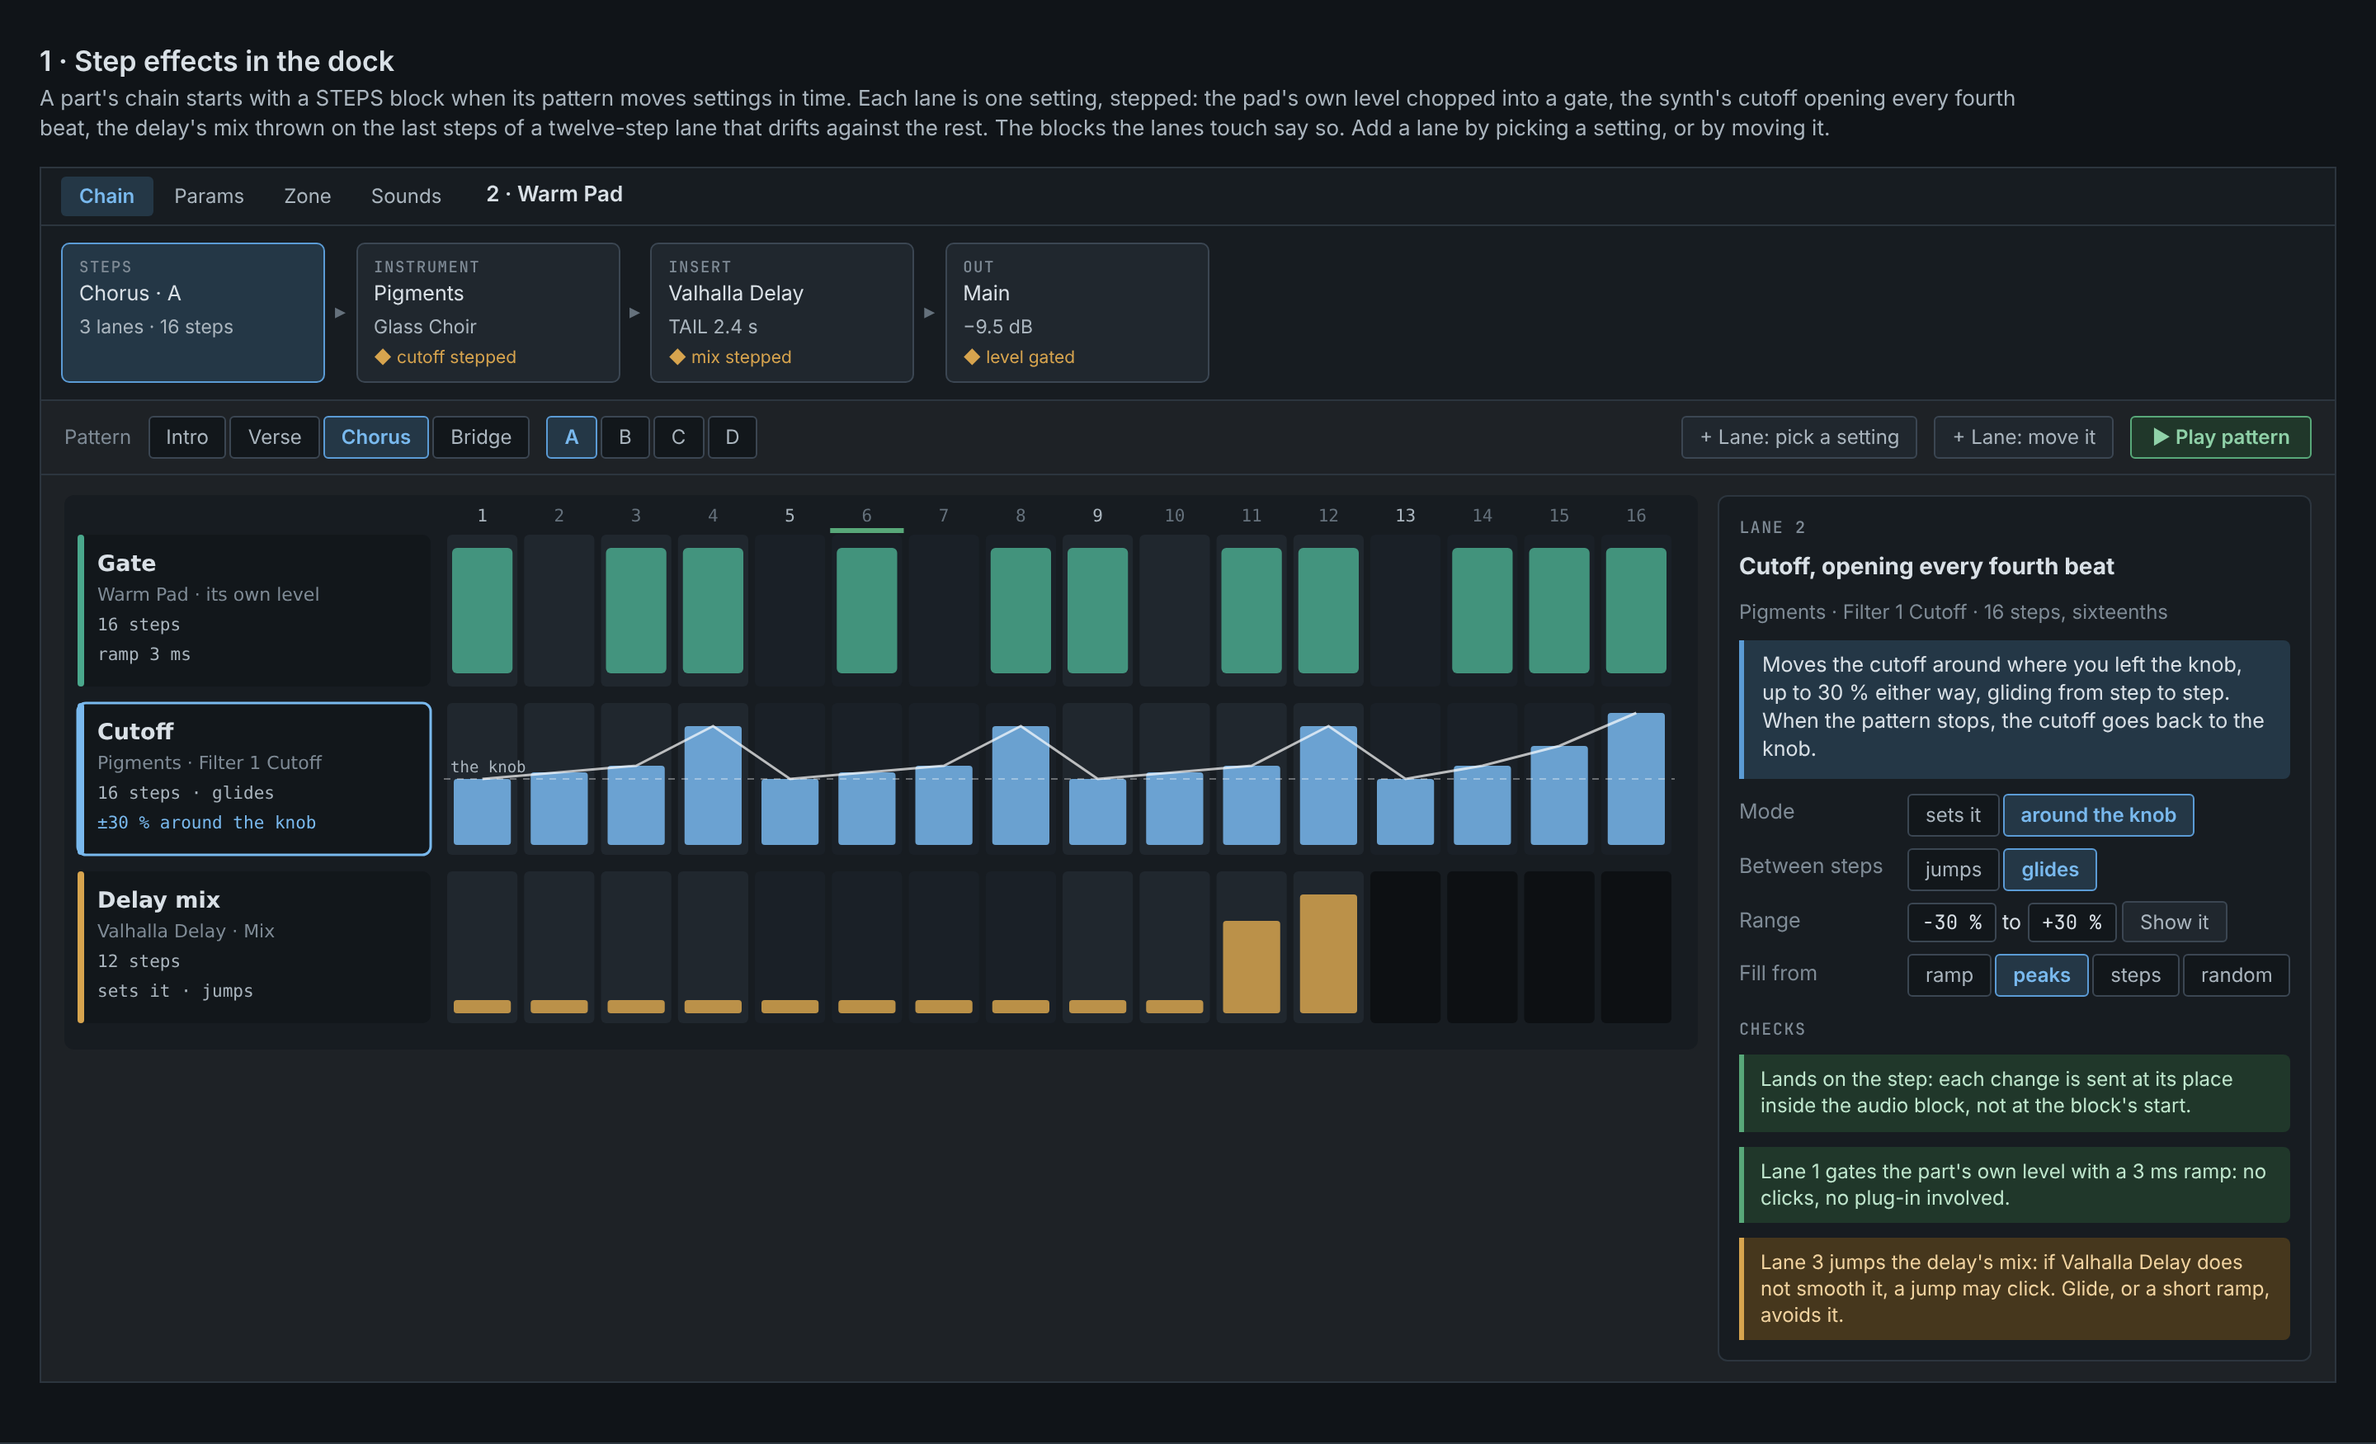
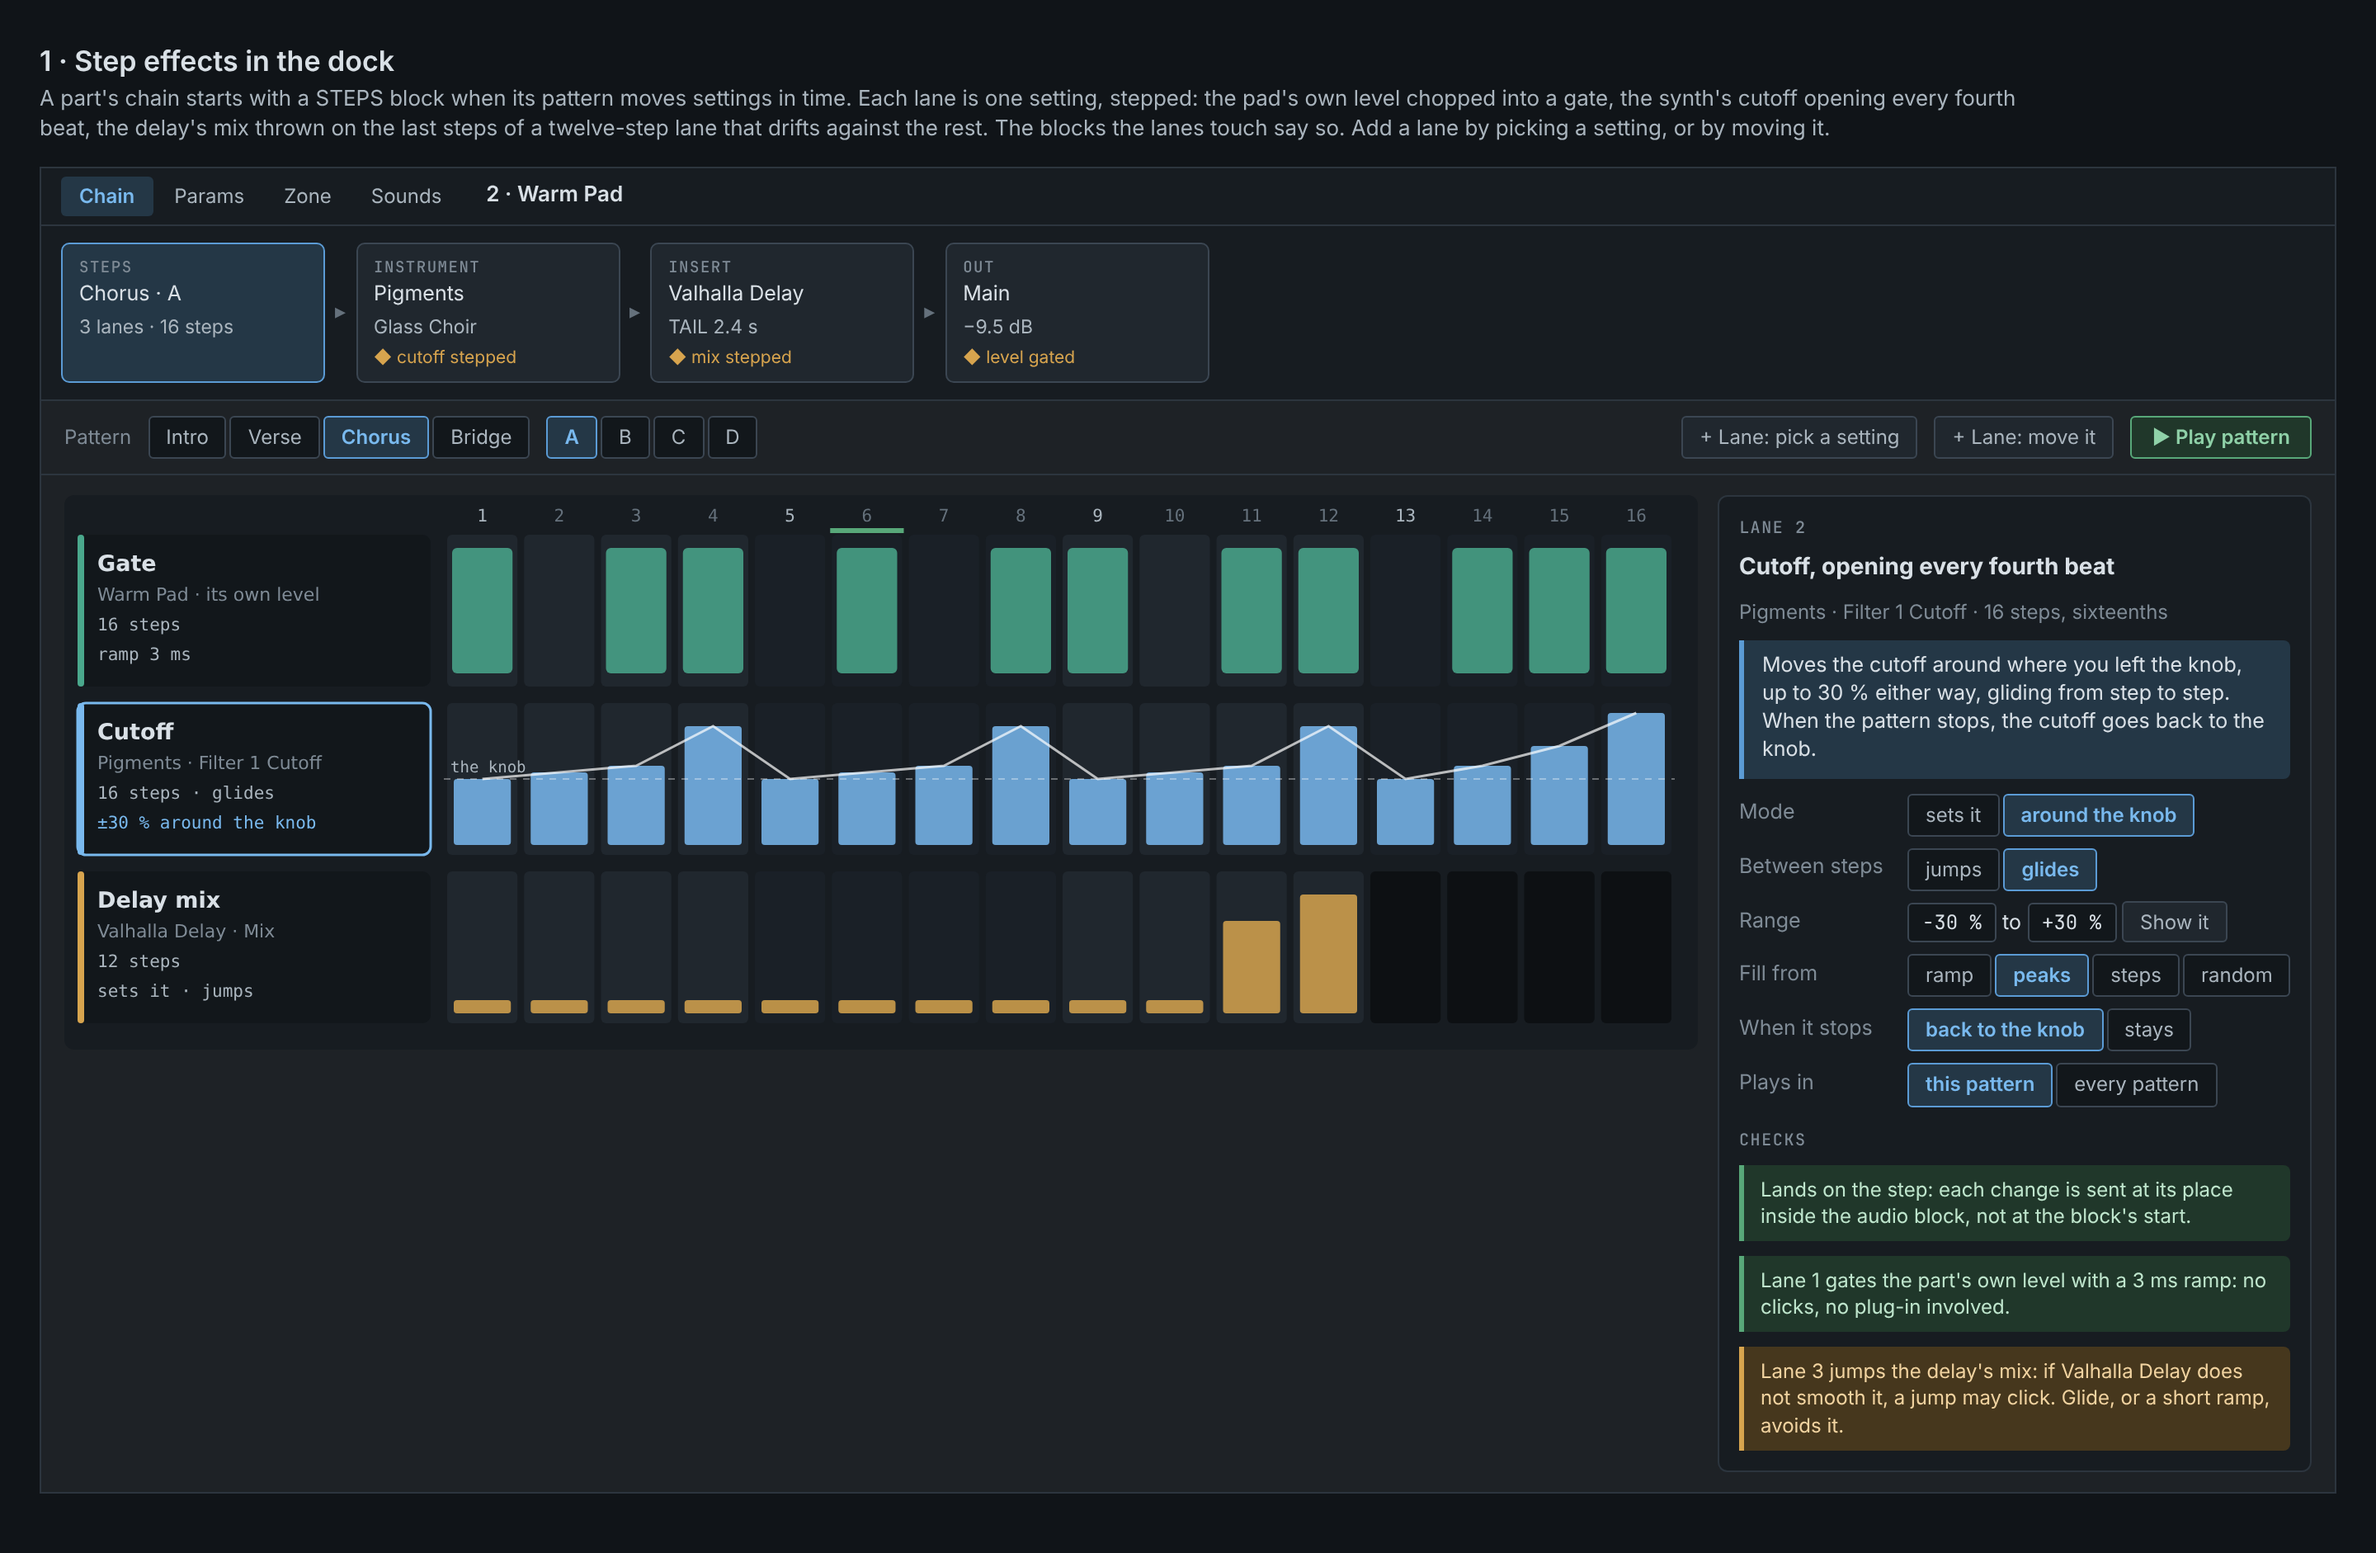
Design: step effects approved; alternatives become settings [skip ci]
The owner said to take the recommendations or make them a choice in the program. Each is taken;
where a reasonable alternative exists it is a setting with the recommendation as default: a lane
plays in this pattern or every pattern of the part, goes back to the knob or stays when the
pattern stops, a gate's ramp is adjustable and a gate on a plug-in's setting is allowed with the
click warning. Landing changes on the step has no setting, since a block early is never wanted.
The lane's panel in the mockup shows the two new choices.

Claude-Session: https://claude.ai/code/session_01HyVeCzB98iwNdttddkKjwm

diff --git a/docs/design/hostage-steps-mockups.html b/docs/design/hostage-steps-mockups.html
@@ -92,6 +92,8 @@
           <span class="kk">Between steps</span><span class="seg"><span>jumps</span><span class="on">glides</span></span>
           <span class="kk">Range</span><span><span class="field">−30 %</span> to <span class="field">+30 %</span> <span class="ghostb">Show it</span></span>
           <span class="kk">Fill from</span><span class="seg"><span>ramp</span><span class="on">peaks</span><span>steps</span><span>random</span></span>
+          <span class="kk">When it stops</span><span class="seg"><span class="on">back to the knob</span><span>stays</span></span>
+          <span class="kk">Plays in</span><span class="seg"><span class="on">this pattern</span><span>every pattern</span></span>
         </div>
         <span class="lbl" style="margin-top:4px">Checks</span>
         <div class="ok">Lands on the step: each change is sent at its place inside the audio block, not at the block's start.</div>

diff --git a/docs/design/README.md b/docs/design/README.md
@@ -74,7 +74,7 @@ with an *as built* section per phase.
 | [HoSTage: samples, on pads and keys](hostage-sampler-design.md) | *Approved with mockups, 2026-11-19; nothing built.* Feature 12 of the second round. A built-in one-shot sampler, the first round's file player made playable: each sample on a pad and on the keys, one key or a pitched range, sixteen pads a bank, trimmed on its waveform, with fades, level, pitch, choke groups and a note; files collected into the show; SAMPLES and TRIM pages on the CTRL49. A full sampler instrument stays with plug-ins. Mockups in [hostage-sampler-mockups.html](hostage-sampler-mockups.html). |
 | [HoSTage: playing the kit](hostage-kit-design.md) | *Approved with mockups, 2026-11-19; nothing built.* Features 2 and 13 to 18 of the second round, all on the drum machine's pads: five ways for the pads to play (play, repeat, one drum, mute, erase), full strength as a switch (pads with velocity play as hit, with no curve), note repeat swung by the pattern's groove, and doubling a pattern. A Pads panel in the dock and a MODE knob on KIT. Mockups in [hostage-kit-mockups.html](hostage-kit-mockups.html). |
 | [HoSTage: the line machine](hostage-line-design.md) | *Approved with mockups, 2026-11-19; nothing built.* Feature 11 of the second round: the drum grid's twin for basslines and synth lines, a pattern on note lanes. A LINE block at the head of the chain; a piano roll in the song's key; accent and slide per step, made to work on any synth (glide by the synth, pitch bend or portamento, the synth checked; accents checked against how the sound answers strength); the line following a key or chord held on this part or another, keeping its shape or staying in the key. One new CTRL49 page, LINE, with pads for steps, accents and slides. Mockups in [hostage-line-mockups.html](hostage-line-mockups.html). |
-| [HoSTage: step effects](hostage-steps-design.md) | *Design with mockups for approval, 2026-11-19; nothing built.* Feature 9 of the second round: the pattern's parameter lanes given a face. A STEPS block at the head of the chain, a lane per setting; a gate on the part's own level, ramped; lanes that set a setting or move it around the knob and give it back when the pattern stops; changes placed on the step inside the audio block, which the plug-in proxy does not do today. A STEPS page on the CTRL49. Mockups in [hostage-steps-mockups.html](hostage-steps-mockups.html). Five decisions for the owner. |
+| [HoSTage: step effects](hostage-steps-design.md) | *Approved with mockups, 2026-11-19; nothing built.* Feature 9 of the second round: the pattern's parameter lanes given a face. A STEPS block at the head of the chain, a lane per setting; a gate on the part's own level, ramped; lanes that set a setting or move it around the knob and give it back when the pattern stops; changes placed on the step inside the audio block, which the plug-in proxy does not do today. A STEPS page on the CTRL49. Recommendations taken, alternatives as settings. Mockups in [hostage-steps-mockups.html](hostage-steps-mockups.html). |
 | [The modular chain](modular-chain.md) | *As built.* Instruments, MIDI modules and inserts as separate things: the per-part MIDI insert chain that replaced the welded FX-into-arp pair (with its migration), group buses where several parts become one signal that keeps going, and chain presets that keep a whole voice — instrument, modules, inserts and zone — as one library record. Ends with what it deliberately does not do. |
 | [Reliability, diagnostics and the support bundle](instrument-host-reliability.md) | The baseline's §17 layer, built after the seven functionality stages: the architecture check that keeps an unloadable module out of the browser without calling it broken, safe startup after a plug-in takes the process down, a last-known-good session that is not the crash, and a support bundle gathered by allowlist. Carries the §18.12 handover material for the host as a whole — compatibility matrix, known limitations, failure fixtures and a manual test plan. |
 | [Feature-list completion audit](hostage-feature-completion-audit.md) | Evidence matrix for the 36 requested Hostage additions: persistent/native/UI/test ownership per item, permitted browser verification, and the two remaining completion gates (native rebuild and real out-of-process crash isolation). |

diff --git a/docs/design/hostage-steps-design.md b/docs/design/hostage-steps-design.md
@@ -1,6 +1,8 @@
 # HoSTage: step effects
 
-*Design with mockups for the owner to approve, 2026-11-19. Nothing built. Feature 9 of
+*Design with mockups, approved by the owner on 2026-11-19: "Do the recommendations or make it a choice
+in the program." Each recommendation is taken, and where a reasonable alternative exists it is a
+setting in HoSTage, the recommendation its default (Decisions). Nothing built. Feature 9 of
 `hostage-build-features-2.md`, taken: a lane that changes an effect's setting step by step. Drawn as
 the line machine was, with each easy version checked for where it fails first. Mockups:
 `hostage-steps-mockups.html`, pictures `docs/media/hostage-steps-1.png` (the dock) and `-2.png` (the
@@ -56,6 +58,9 @@ after the drum machine and the line machine.
   then: **mode** (sets it, around the knob), **between steps** (jumps, glides), **range** (by numbers,
   or **Show it** by moving the setting to each end, as ranges by showing does), and **fill from** a
   shape (ramp, peaks, steps, random).
+- **When it stops**: **back to the knob** (the default) or **stays** where the lane left it.
+- **Plays in**: **this pattern** (the default, so it follows the song's sections and A to D) or
+  **every pattern** of the part (a gate that runs through the whole song).
 - **Checks**, on the lane: whether changes land on the step, whether a gate is ramped, whether a jump
   may click.
 
@@ -85,13 +90,19 @@ song (features record, "Where the line is").
 - **The checks**: ramps, jumps likely to click, and the lane offered to the new plug-in when one is
   swapped (Build mode, further, keeping the mappings).
 
-## Decisions for the owner
+## Decisions (owner, 2026-11-19: "Do the recommendations or make it a choice in the program")
 
-1. **A STEPS block at the head of the chain**, its lanes part of the part's pattern, so they follow
-   the song's sections and the variations A to D?
-2. **Every lane either sets the setting or moves it around the knob**, and the setting goes back to the
-   knob when the pattern stops?
-3. **A gate on the part's own level**, ramped so it never clicks; other settings jump or glide, with a
-   warning when a jump may click?
-4. **Changes land on the step**, not at the start of the audio block, through plug-in isolation?
-5. **The STEPS page** on the CTRL49, the pads as steps?
+Each recommendation is taken. Where a reasonable alternative exists, it is a setting in HoSTage, with
+the recommendation as its default; where the alternative would only be wrong, there is no setting.
+
+1. **A STEPS block at the head of the chain**, its lanes part of the part's pattern. **Taken.** A
+   choice per lane: **plays in this pattern** (default: it follows the sections and A to D) or **every
+   pattern** of the part.
+2. **Sets it, or around the knob**: already a choice per lane, as drawn. **The setting goes back to
+   the knob when the pattern stops**: **taken as the default**, with **stays** as the choice per lane.
+3. **A gate on the part's own level, ramped**: **taken.** The ramp is a choice (a few milliseconds by
+   default). A gate on a plug-in's setting is allowed as a choice, with the click warning. Jumps or
+   glides is a choice per lane, as drawn.
+4. **Changes land on the step**: **taken, no choice.** Landing a block early is never wanted.
+5. **The STEPS page** on the CTRL49, the pads as steps: **taken**, its knobs and pads settled when
+   built.

diff --git a/docs/design/hostage-build-features-2.md b/docs/design/hostage-build-features-2.md
@@ -29,7 +29,7 @@ is right.*
 | 6 | **Drop a MIDI file on the grid** | taken; design to come | |
 | 7 | **Take the groove from your playing** | taken; design to come | |
 | 8 | **Beatbox it in** | taken; design to come | |
-| 9 | **Step effects**: a lane that changes an effect's setting step by step | taken; design with mockups for approval, 2026-11-19 | `hostage-steps-design.md` |
+| 9 | **Step effects**: a lane that changes an effect's setting step by step | approved with mockups, 2026-11-19 | `hostage-steps-design.md` |
 | 10 | **The kick ducks the bass**, from the pattern's own hits | taken; design to come | |
 | 11 | **A line machine**: the drum grid's twin for basslines and synth lines | approved with mockups, 2026-11-19 | `hostage-line-design.md` |
 | 12 | **Samples, on pads and keys**: a built-in one-shot sampler, the file player made playable | approved with mockups, 2026-11-19 | `hostage-sampler-design.md` |
